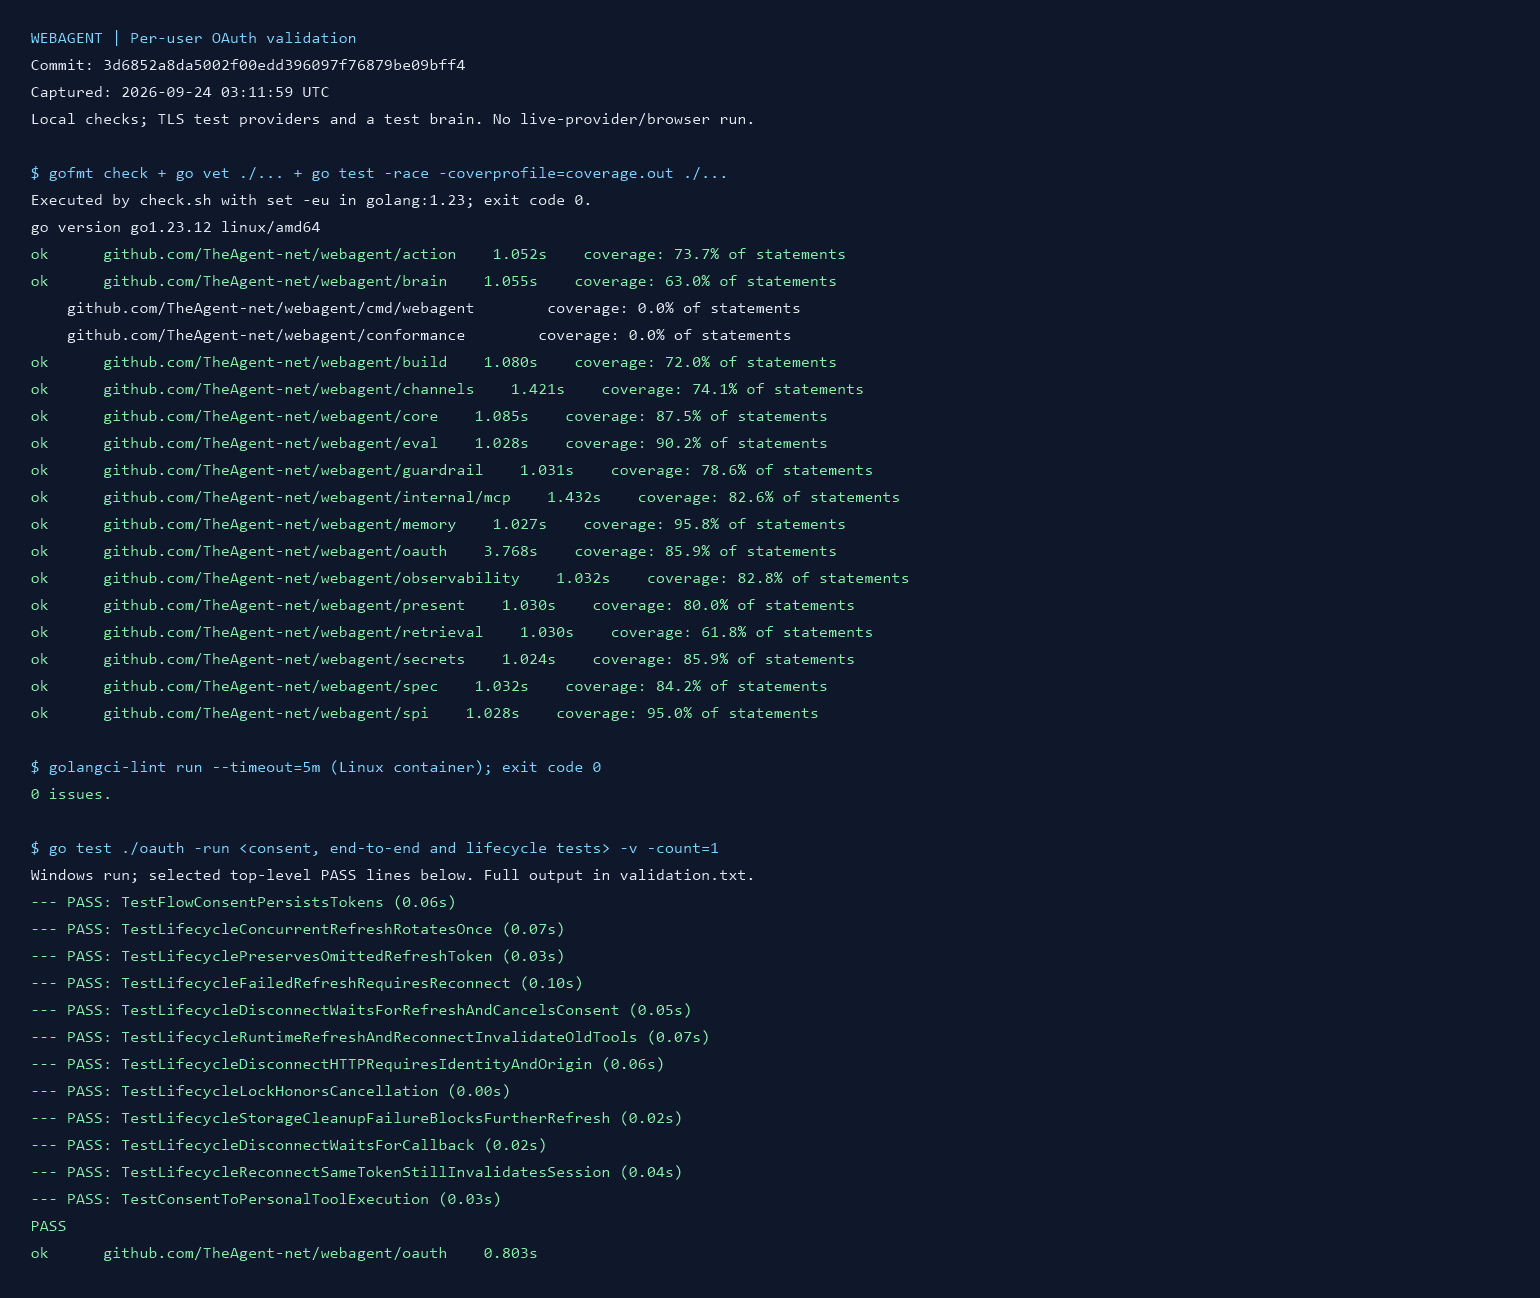
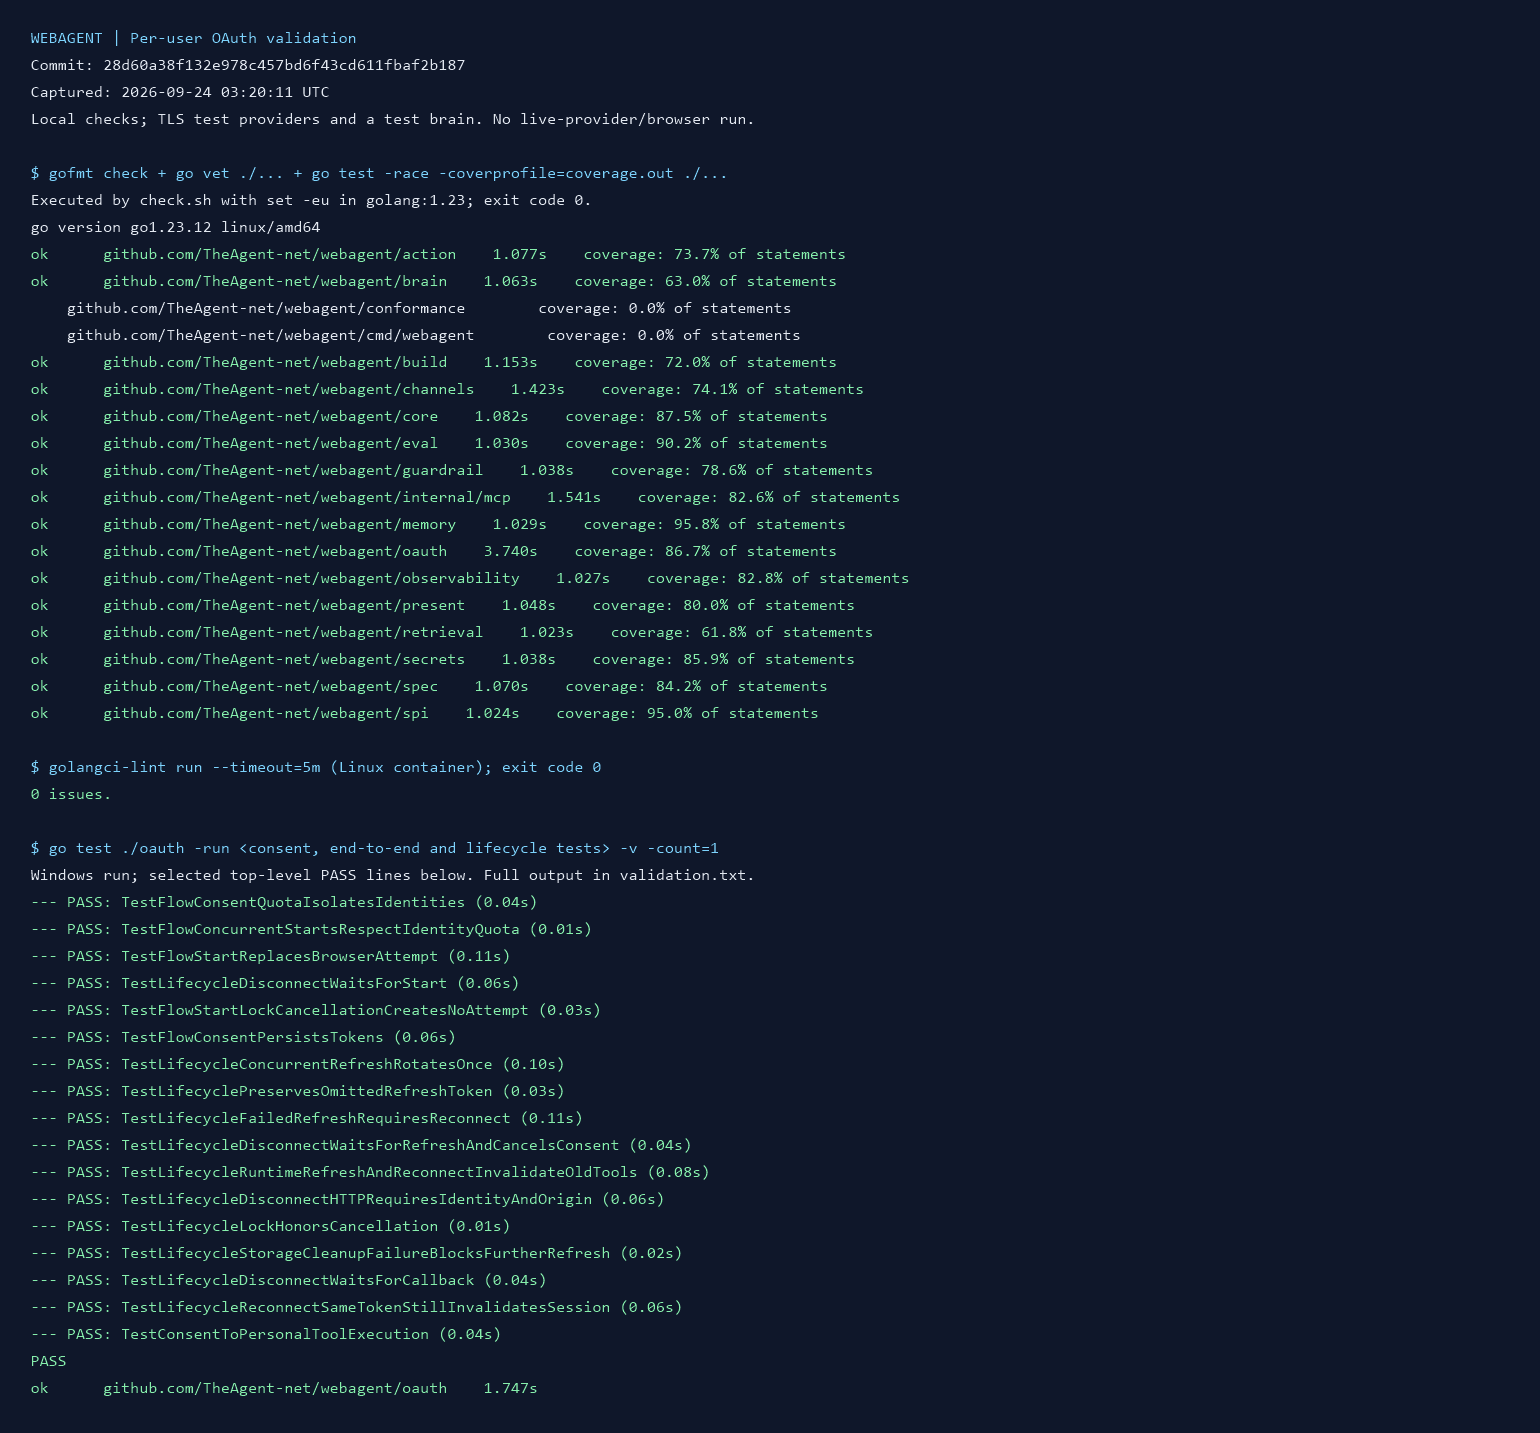
Record local validation evidence for PR 19

diff --git a/oauth/consent_limits_test.go b/oauth/consent_limits_test.go
@@ -1,0 +1,188 @@
+package oauth
+
+import (
+	"context"
+	"errors"
+	"net/http"
+	"net/http/httptest"
+	"net/url"
+	"sync"
+	"testing"
+	"time"
+)
+
+func startConsent(f *Flow, ctx context.Context, cookie *http.Cookie) *httptest.ResponseRecorder {
+	req := httptest.NewRequest(http.MethodPost, "https://app.example/connect", nil).WithContext(ctx)
+	req.Header.Set("Origin", "https://app.example")
+	if cookie != nil {
+		req.AddCookie(cookie)
+	}
+	w := httptest.NewRecorder()
+	f.Start(w, req)
+	return w
+}
+
+func TestFlowConsentQuotaIsolatesIdentities(t *testing.T) {
+	x := newFlowFixture(t, "none")
+	// Deliberately drop cookies on every request, as an abusive client can do.
+	for i := 0; i < maxAttempts+1; i++ {
+		want := http.StatusTooManyRequests
+		if i < maxAttemptsPerIdentity {
+			want = http.StatusSeeOther
+		}
+		if w := startConsent(x.flow, x.ctx, nil); w.Code != want {
+			t.Fatalf("request %d: got %d, want %d", i, w.Code, want)
+		}
+	}
+	for _, ctx := range []context.Context{
+		identityContext(t, "tenant-a", "user-b"),
+		identityContext(t, "tenant-b", "user-a"),
+	} {
+		if w := startConsent(x.flow, ctx, nil); w.Code != http.StatusSeeOther {
+			t.Fatalf("another identity lost consent capacity: %d", w.Code)
+		}
+	}
+	if len(x.flow.pending) != maxAttemptsPerIdentity+2 {
+		t.Fatal("pending capacity not bounded per tenant/user")
+	}
+	// Expiry releases capacity without requiring a process restart.
+	for state, attempt := range x.flow.pending {
+		attempt.expires = time.Now().Add(-time.Second)
+		x.flow.pending[state] = attempt
+	}
+	if w := startConsent(x.flow, x.ctx, nil); w.Code != http.StatusSeeOther || len(x.flow.pending) != 1 {
+		t.Fatal("expired attempts did not release capacity")
+	}
+}
+
+func TestFlowConcurrentStartsRespectIdentityQuota(t *testing.T) {
+	x := newFlowFixture(t, "none")
+	const requests = 32
+	statuses := make(chan int, requests)
+	var wg sync.WaitGroup
+	for i := 0; i < requests; i++ {
+		wg.Add(1)
+		go func() {
+			defer wg.Done()
+			statuses <- startConsent(x.flow, x.ctx, nil).Code
+		}()
+	}
+	wg.Wait()
+	close(statuses)
+	accepted := 0
+	for status := range statuses {
+		switch status {
+		case http.StatusSeeOther:
+			accepted++
+		case http.StatusTooManyRequests:
+		default:
+			t.Fatalf("unexpected start status: %d", status)
+		}
+	}
+	if accepted != maxAttemptsPerIdentity || len(x.flow.pending) != accepted {
+		t.Fatalf("concurrent starts bypassed quota: accepted %d", accepted)
+	}
+}
+
+func TestFlowStartReplacesBrowserAttempt(t *testing.T) {
+	x := newFlowFixture(t, "none")
+	u, cookie := x.start(t)
+	oldCallback := x.approve(t, u)
+	oldCookie := cookie
+	var latest *httptest.ResponseRecorder
+	for i := 0; i < maxAttempts+1; i++ {
+		latest = startConsent(x.flow, x.ctx, cookie)
+		if latest.Code != http.StatusSeeOther {
+			t.Fatalf("browser replacement exhausted consent capacity: %d", latest.Code)
+		}
+		response := latest.Result()
+		cookie = response.Cookies()[0]
+		_ = response.Body.Close()
+	}
+	if len(x.flow.pending) != 1 {
+		t.Fatal("superseded browser attempts retained")
+	}
+	if w := x.callback(x.ctx, oldCallback, oldCookie); w.Code != http.StatusBadRequest || x.calls.Load() != 0 {
+		t.Fatal("superseded consent performed a token exchange")
+	}
+	// Presenting another identity's binding cookie cannot delete its attempt.
+	other := identityContext(t, "tenant-a", "user-b")
+	if w := startConsent(x.flow, other, cookie); w.Code != http.StatusSeeOther || len(x.flow.pending) != 2 {
+		t.Fatal("browser replacement affected another identity")
+	}
+	latestURL, err := url.Parse(latest.Header().Get("Location"))
+	if err != nil {
+		t.Fatal(err)
+	}
+	if w := x.callback(x.ctx, x.approve(t, latestURL), cookie); w.Code != http.StatusOK {
+		t.Fatalf("latest consent failed: %d", w.Code)
+	}
+}
+
+type consentRedirectWriter struct {
+	*httptest.ResponseRecorder
+	beforeRedirect func()
+}
+
+func (w consentRedirectWriter) WriteHeader(status int) {
+	if status == http.StatusSeeOther {
+		w.beforeRedirect()
+	}
+	w.ResponseRecorder.WriteHeader(status)
+}
+
+func TestLifecycleDisconnectWaitsForStart(t *testing.T) {
+	x := newFlowFixture(t, "none")
+	expiredConnection(t, x)
+	req := httptest.NewRequest(http.MethodPost, "https://app.example/connect", nil).WithContext(x.ctx)
+	req.Header.Set("Origin", "https://app.example")
+	w := httptest.NewRecorder()
+	checked := false
+	x.flow.Start(consentRedirectWriter{w, func() {
+		checked = true
+		// Pause Start while it sends the redirect. Disconnect must wait for it,
+		// even though its pending entry has already been inserted.
+		ctx, cancel := context.WithTimeout(x.ctx, 20*time.Millisecond)
+		defer cancel()
+		if err := x.flow.DisconnectConnection(ctx); !errors.Is(err, context.DeadlineExceeded) {
+			t.Fatalf("disconnect bypassed active Start: %v", err)
+		}
+	}}, req)
+	if !checked || w.Code != http.StatusSeeOther {
+		t.Fatal("Start did not reach its redirect")
+	}
+	if err := x.flow.DisconnectConnection(x.ctx); err != nil {
+		t.Fatal(err)
+	}
+	if _, err := x.store.Load(x.ctx, x.flow.cfg.Binding); !errors.Is(err, ErrNotConnected) || len(x.flow.pending) != 0 {
+		t.Fatal("disconnect retained credentials or consent")
+	}
+	u, err := url.Parse(w.Header().Get("Location"))
+	if err != nil {
+		t.Fatal(err)
+	}
+	response := w.Result()
+	defer func() { _ = response.Body.Close() }()
+	if callback := x.callback(x.ctx, x.approve(t, u), response.Cookies()[0]); callback.Code != http.StatusBadRequest || x.calls.Load() != 0 {
+		t.Fatal("a Start ordered before disconnect restored credentials")
+	}
+	// Fresh consent remains possible after a completed disconnect.
+	u, cookie := x.start(t)
+	if callback := x.callback(x.ctx, x.approve(t, u), cookie); callback.Code != http.StatusOK {
+		t.Fatal("fresh consent after disconnect was rejected")
+	}
+}
+
+func TestFlowStartLockCancellationCreatesNoAttempt(t *testing.T) {
+	x := newFlowFixture(t, "none")
+	unlock, err := x.flow.lockConnection(x.ctx)
+	if err != nil {
+		t.Fatal(err)
+	}
+	defer unlock()
+	ctx, cancel := context.WithTimeout(x.ctx, 20*time.Millisecond)
+	defer cancel()
+	if w := startConsent(x.flow, ctx, nil); w.Code != http.StatusRequestTimeout || len(x.flow.pending) != 0 {
+		t.Fatal("canceled Start created pending consent")
+	}
+}

diff --git a/oauth/flow.go b/oauth/flow.go
@@ -22,8 +22,9 @@ import (
 )
 
 const (
-	attemptLifetime = 5 * time.Minute
-	maxAttempts     = 1024
+	attemptLifetime        = 5 * time.Minute
+	maxAttempts            = 1024
+	maxAttemptsPerIdentity = 8
 )
 
 // FlowConfig configures one preregistered OAuth client and integration. Scopes are
@@ -53,11 +54,12 @@ type authorizationAttempt struct {
 // Start requires a same-origin POST; Callback accepts a query-mode GET.
 // Do not log callback queries, authorization URLs, cookies, or token responses.
 //
-// Pending attempts are held in memory for five minutes, capped at 1024, and consumed
-// once before exchange. Restarting requires starting consent again. Use one shared
-// instance per integration in a single process. ToolSource, Callback and Disconnect
-// share lifecycle coordination; distributed coordination is not provided. Only the latest attempt in a
-// browser for this callback can finish, because Start replaces its binding cookie.
+// Pending attempts are held in memory for five minutes, capped at eight per
+// tenant/user and 1024 overall, and consumed once before exchange. Restarting
+// requires starting consent again. Use one shared instance per integration in a
+// single process. Start, ToolSource, Callback and Disconnect share lifecycle
+// coordination; distributed coordination is not provided. Starting again in the
+// same browser replaces that identity's previous attempt and binding cookie.
 type Flow struct {
 	cfg        FlowConfig
 	metadata   mcp.AuthorizationMetadata
@@ -215,6 +217,15 @@ func (f *Flow) Start(w http.ResponseWriter, r *http.Request) {
 		http.Error(w, "Same-origin request required", http.StatusForbidden)
 		return
 	}
+	// Admit consent under the same lock as callback persistence and disconnect.
+	// A disconnect ordered after this Start must remove its pending attempt, even
+	// when Start is still generating randomness or sending the browser redirect.
+	unlock, err := f.lockConnection(r.Context())
+	if err != nil {
+		http.Error(w, "Connection request canceled", http.StatusRequestTimeout)
+		return
+	}
+	defer unlock()
 	state, err1 := randomValue()
 	verifier, err2 := randomValue()
 	browser, err3 := randomValue()
@@ -223,14 +234,25 @@ func (f *Flow) Start(w http.ResponseWriter, r *http.Request) {
 		return
 	}
 	identity, _ := core.IdentityFromContext(r.Context())
+	previous, cookieErr := r.Cookie(f.cookieName)
+	var previousHash [32]byte
+	replacePrevious := cookieErr == nil && len(previous.Value) == 43
+	if replacePrevious {
+		previousHash = sha256.Sum256([]byte(previous.Value))
+	}
 	now := time.Now()
 	f.mu.Lock()
+	ownedAttempts := 0
 	for key, attempt := range f.pending {
-		if !now.Before(attempt.expires) {
+		if !now.Before(attempt.expires) || (attempt.identity == identity && replacePrevious && subtle.ConstantTimeCompare(attempt.browserHash[:], previousHash[:]) == 1) {
 			delete(f.pending, key)
+			continue
+		}
+		if attempt.identity == identity {
+			ownedAttempts++
 		}
 	}
-	if len(f.pending) >= maxAttempts {
+	if ownedAttempts >= maxAttemptsPerIdentity || len(f.pending) >= maxAttempts {
 		f.mu.Unlock()
 		http.Error(w, "Too many pending connections", http.StatusTooManyRequests)
 		return

diff --git a/oauth/lifecycle.go b/oauth/lifecycle.go
@@ -125,9 +125,10 @@ func (f *Flow) setBlocked(ctx context.Context, blocked bool) {
 }
 
 // DisconnectConnection deletes local credentials and cancels outstanding consent
-// attempts for this identity. It waits for refresh/callback mutations to finish, so
-// they cannot restore the record after a successful disconnect. Already-sent MCP
-// calls may finish. This is local disconnect, not issuer-side token revocation.
+// attempts for this identity. It waits for admitted Start, refresh and callback
+// operations to finish, so they cannot restore the record after a successful
+// disconnect. Already-sent MCP calls may finish. This is local disconnect, not
+// issuer-side token revocation.
 func (f *Flow) DisconnectConnection(ctx context.Context) error {
 	unlock, err := f.lockConnection(ctx)
 	if err != nil {

diff --git a/oauth/README.md b/oauth/README.md
@@ -67,7 +67,12 @@ Do not log callback query strings, authorization redirect URLs, cookies, client
 secrets, or token responses in the host or reverse proxy. Handler responses disable
 caching and referrer transmission. Pending attempts expire after five minutes;
 process restart loses them. Failed exchanges are not retried: start consent again.
-Only the newest attempt for a given callback in one browser can finish.
+Only the newest attempt for a given callback in one browser can finish. Starting
+again with its binding cookie removes that identity's superseded attempt. Pending
+consent is limited to eight attempts per tenant/user and 1024 per Flow; additional
+attempts receive HTTP 429 until capacity is released or attempts expire. Dropping
+cookies does not bypass the per-identity limit. The host should additionally rate
+limit requests according to its own account and tenant admission policy.
 
 ## Personal MCP tools
 
@@ -113,12 +118,15 @@ fails, the connection is blocked in this Flow until consent/disconnect succeeds;
 the block is in memory, so the host must resolve storage failures before restarting.
 
 The authenticated same-origin POST disconnect handler deletes credentials and
-cancels pending consent attempts. It waits for an active refresh/callback mutation
-to finish, preventing late writes from restoring access after successful deletion.
+cancels pending consent attempts. It waits for an admitted Start or active
+refresh/callback mutation to finish, preventing late writes from restoring access
+after successful deletion.
 Already-sent MCP calls may finish. Disconnect does not revoke the provider-side grant.
 Use one Flow per binding/store; bypassing it with direct store writes or additional
 Flow instances forfeits coordination. A fixed set of lock stripes bounds lock memory;
 unrelated identities that hash to the same stripe may briefly wait for each other.
+Start is admitted when it acquires the lifecycle lock. Disconnect cancels starts
+ordered before it; a new Start admitted after disconnect can begin fresh consent.
 
 The lower-level `NewMCPToolSource(binding, store)` remains available for hosts with
 their own lifecycle management. It does not refresh; changing the access token

diff --git a/README.md b/README.md
@@ -146,7 +146,8 @@ Complete and green (build/vet/test):
 
 **Works today:** echo/openrouter/gateway brains; `mcp` over Streamable HTTP (JSON + SSE,
 bearer/api-key); HTTP `a2a`/`web` channels; live Slack + WhatsApp; secrets vault (env/file/static);
-GuardAll; TurnTrace; `keys` CLI.
+GuardAll; TurnTrace; `keys` CLI; per-user [MCP OAuth](oauth/README.md) for authenticated
+embedding hosts (host-provided login and consent routes).
 
-**Not yet:** browser action provider; OAuth-gated MCP; OTel exporter; Telegram adapter; partner
+**Not yet:** browser action provider; built-in OAuth Connect UI; OTel exporter; Telegram adapter; partner
 memory/guardrail adapters; AgentNet identity forwarding + billing. See [DESIGN.md](DESIGN.md).
